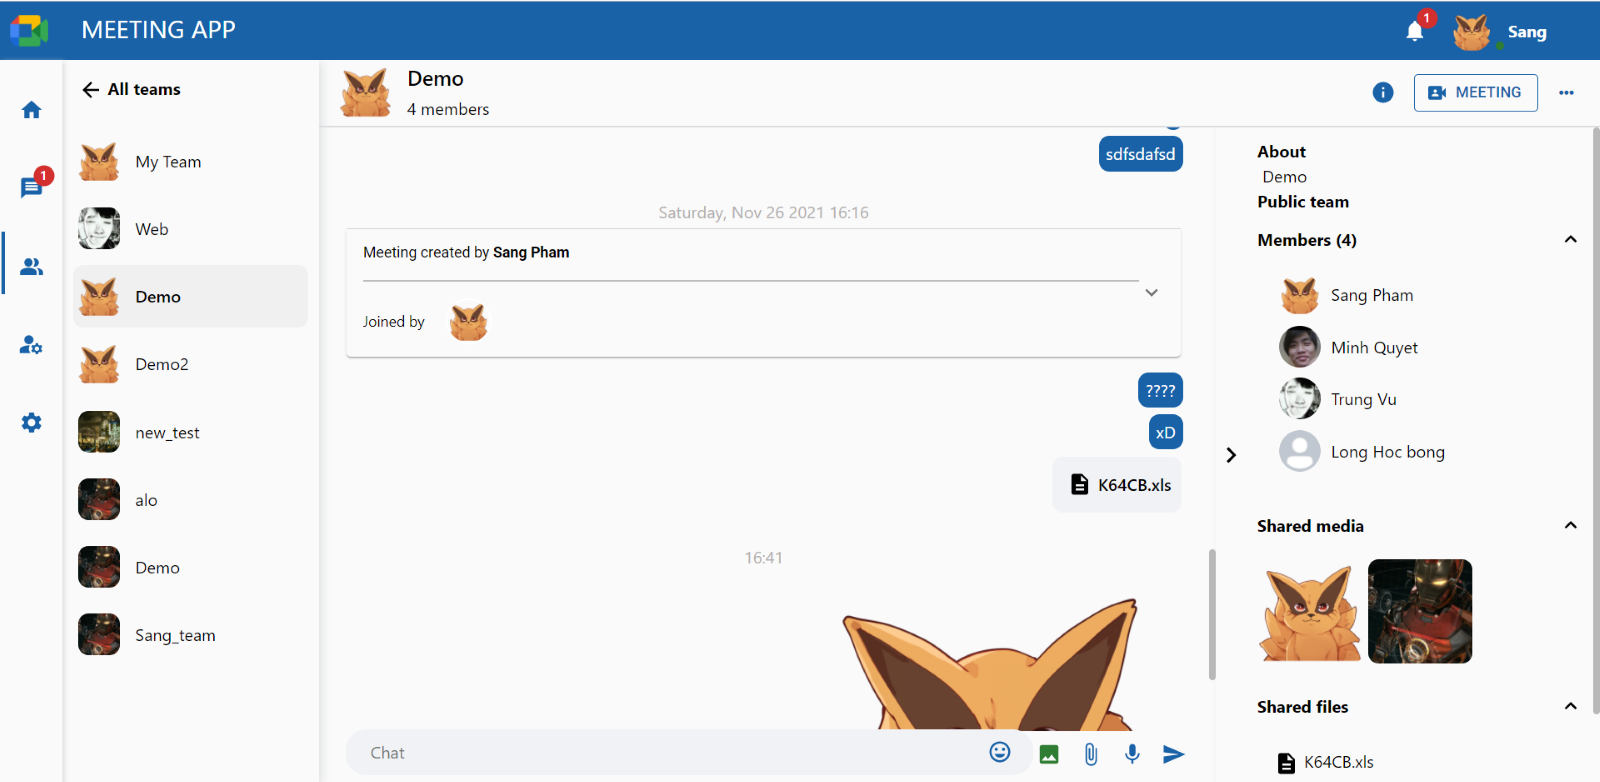
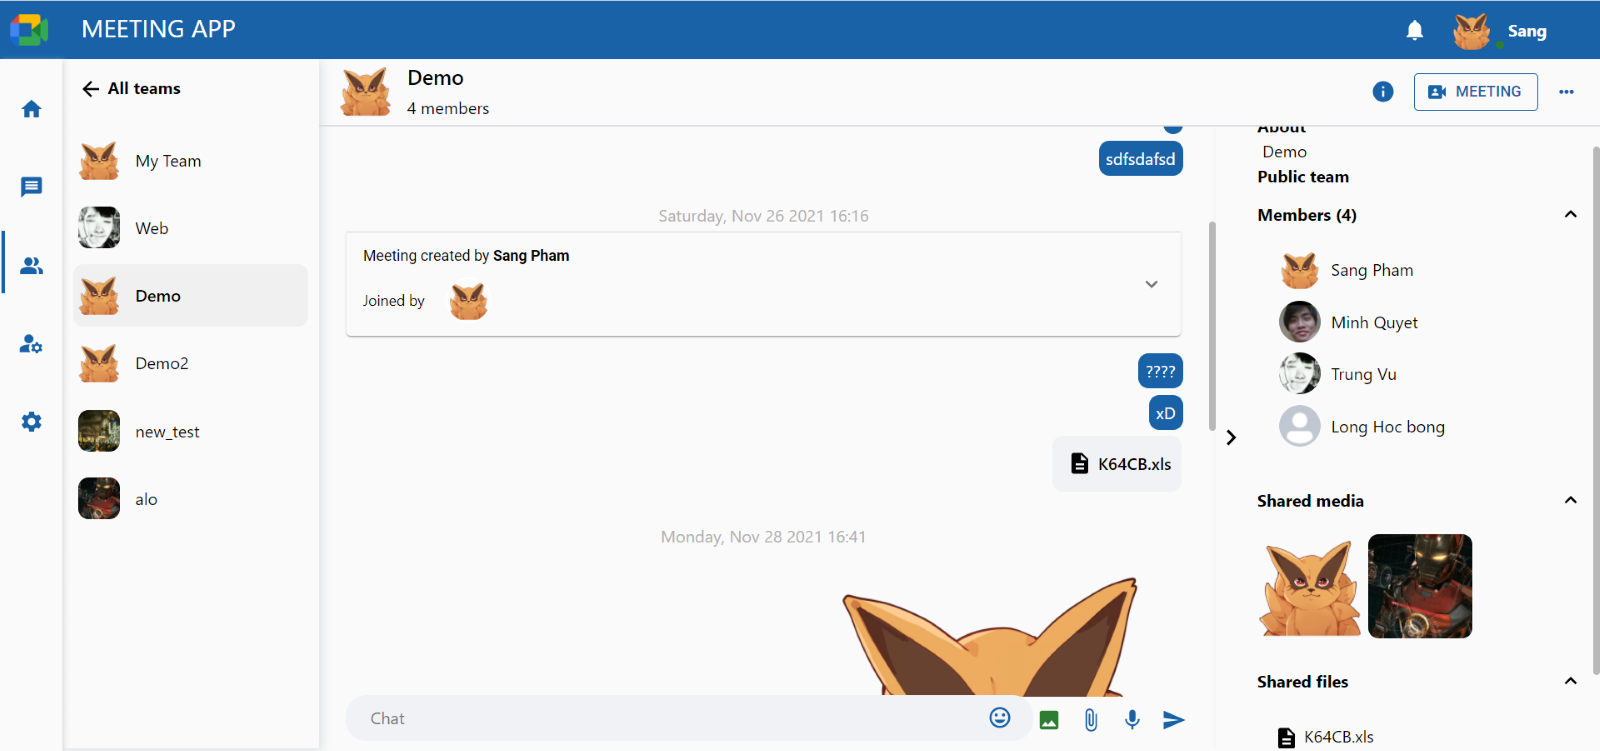
meeting info

diff --git a/backend/src/socket/index.js b/backend/src/socket/index.js
@@ -2,7 +2,7 @@ const { getMemberTeam, sendMessage, socketInviteUsers,
     socketConfirmRequest, socketRemoveMember, socketDeleteTeam } = require('../controllers/team.controller');
 const { getActiveMemberMeeting, addMemberMeeting,
     joinMeeting, outMeeting, getUserMeeting, getMeetingInfo,
-    updateMeetingState, sendMessageMeeting } = require('../controllers/meeting.controller')
+    updateMeetingState, sendMessageMeeting, getMeetingHostId } = require('../controllers/meeting.controller')
 const { setConversation, setMessage, removeMessageCv } = require('../controllers/conversation.controller');
 const { createTeamNofication, createMessageNotification, createMeetingNofication } = require('../controllers/notification.controller')
 const { socketRequestTeam, setUserStatus, getUserStatus,
@@ -262,8 +262,13 @@ const socketServer = (io, socket) => {
         let members = await getActiveMemberMeeting({ meetingId }); // luon lay in Meeting
         user = members.find(m => m.userId === user.userId)
         socket.meetingId = meetingId
+        let meeting = await getMeetingHostId({ meetingId })
+        let hostId
+        if (meeting) {
+            hostId = meeting.hostId
+        }
 
-        socket.emit('joined-meeting', { members, meetingId, teamId, usersAudio: meetingsAudio[meetingId] })
+        socket.emit('joined-meeting', { members, meetingId, teamId, usersAudio: meetingsAudio[meetingId], hostId })
 
         for (let m of members) {
             console.log(userSockets[m.userId])

diff --git a/frontend/src/routes/meeting/MeetingInfo/index.js b/frontend/src/routes/meeting/MeetingInfo/index.js
@@ -1,0 +1,33 @@
+import React, { useEffect } from 'react'
+import { useSelector } from 'react-redux';
+
+export default function MeetingInfo({ infoVisible }) {
+  const userReducer = useSelector(state => state.userReducer)
+  const meetingReducer = useSelector(state => state.meetingReducer)
+  const teamReducer = useSelector(state => state.teamReducer)
+
+  const getUserName = userId => {
+    let user = teamReducer.team.members.find(user => user.id == userId)
+    return (user || {}).userName || '';
+  }
+
+  return (
+    <>
+      <div className="chatbox-header">
+        <div>
+          Meeting Info
+        </div>
+        <div>
+          <IconButton onClick={infoVisible}>
+            <CloseIcon />
+          </IconButton>
+        </div>
+      </div>
+      <div>
+        {getUserName(meetingReducer.meeting.hostId) &&
+          <h5>Meeting created by {getUserName(meetingReducer.meeting.hostId)}</h5>}
+        {teamReducer.team.name && <h5>Meeting created at team {teamReducer.team.name}</h5>}
+      </div>
+    </>
+  )
+}

diff --git a/frontend/src/store/reducers/meeting.reducer.js b/frontend/src/store/reducers/meeting.reducer.js
@@ -25,7 +25,8 @@ export const meetingSlice = createSlice({
       messages: [],
       teamId: null,
       messagesLoaded: false,
-      usersAudio: {}
+      usersAudio: {},
+      hostId: null
     },
     loading: false,
     error: null
@@ -80,11 +81,12 @@ export const meetingSlice = createSlice({
       }
     },
     getMeetingMembers: (state, action) => {
-      let { members, meetingId, teamId, usersAudio } = action.payload
+      let { members, meetingId, teamId, usersAudio, hostId } = action.payload
       state.meeting.members = members
       state.meeting.id = meetingId
       state.meeting.teamId = teamId
       state.meeting.usersAudio = usersAudio
+      state.meeting.hostId = hostId
     },
     meetingUserAudioChange: (state, action) => {
       let { meetingId, userId, isAudioActive } = action.payload

diff --git a/frontend/src/routes/meeting/index.js b/frontend/src/routes/meeting/index.js
@@ -5,6 +5,7 @@ import { socketClient } from "../../utils";
 import MeetingChatBox from "./MeetingChatBox";
 import MeetingUserList from "./MeetingUserList";
 import MeetingVideo from "./MeetingVideo";
+import MeetingInfo from "./MeetingInfo";
 import { isAuthenticated } from '../../store/reducers/user.reducer';
 import {
 	getTeamInfo,
@@ -583,6 +584,9 @@ const Meeting = (props) => {
 				<div className="meeting-box" style={{
 					width: isOpenChat || isOpenInfo || isOpenUsers ? '350px' : '0%'
 				}}>
+
+					{isOpenInfo && <MeetingInfo infoVisible={handleVisibleInfo} />}
+
 					{isOpenChat && <MeetingChatBox chatVisible={handleVisibleChat} />}
 
 					{isOpenUsers && <MeetingUserList usersVisible={handleVisibleUsers} members={meetingReducer.meeting.members} />}

diff --git a/backend/src/controllers/meeting.controller.js b/backend/src/controllers/meeting.controller.js
@@ -350,10 +350,25 @@ const getAllMeetings = async (req, res) => {
   }
 }
 
+const getMeetingHostId = async ({ meetingId }) => {
+  try {
+    let meeting = await Meeting.findOne({
+      where: {
+        id: teamId
+      },
+      attributes: ['hostId']
+    })
+    return meeting
+  } catch (error) {
+    console.log(error)
+    return null
+  }
+}
+
 module.exports = {
   getMeetingInfo, createMeeting, getActiveMemberMeeting,
   addMemberMeeting, outMeeting, joinMeeting,
   getUserMeeting, updateMeetingState, sendMessageMeeting,
   getMeetingMessages, getCurrentMeeting, getMeetingById,
-  getAllMeetings
+  getAllMeetings, getMeetingHostId
 }

diff --git a/frontend/src/components/MeetingItem/index.js b/frontend/src/components/MeetingItem/index.js
@@ -29,7 +29,7 @@ export default function MeetingItem({ meeting }) {
         }
       })()
     }
-  }, [])
+  }, [meeting.active])
 
   const getUserName = userId => {
     let user = meeting.members.find(user => user.id == userId)
@@ -55,7 +55,6 @@ export default function MeetingItem({ meeting }) {
           <Typography style={{ fontSize: '14px' }}>
             Meeting created by <strong>{hostName}</strong>
           </Typography>
-          <hr style={{ color: 'var(--text-color)' }} />
           {meeting.members && meeting.members.length > 0 && <div style={{
             marginTop: '10px',
             display: 'flex',

diff --git a/frontend/src/components/Layout/index.js b/frontend/src/components/Layout/index.js
@@ -197,12 +197,13 @@ export default function Layout({ children }) {
       dispatch(userJoinMeeting({ teamId, meetingId, user, isAudioActive }))
     })
 
-    socketClient.on('joined-meeting', ({ members, meetingId, teamId, usersAudio }) => {
+    socketClient.on('joined-meeting', ({ members, meetingId, teamId, usersAudio, hostId }) => {
       dispatch(getMeetingMembers({
         members,
         meetingId,
         teamId,
-        usersAudio
+        usersAudio,
+        hostId
       }))
     })
 
